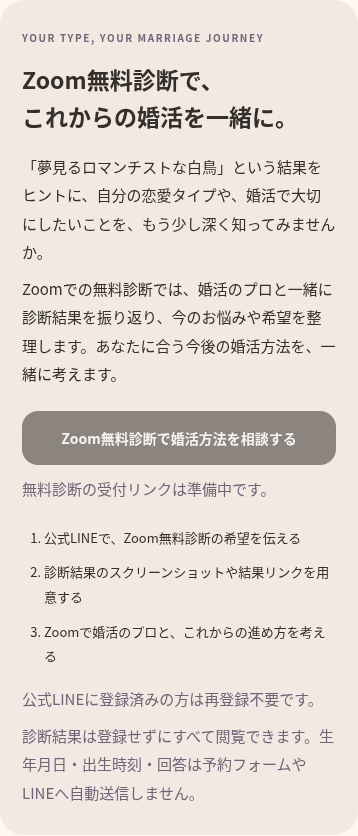
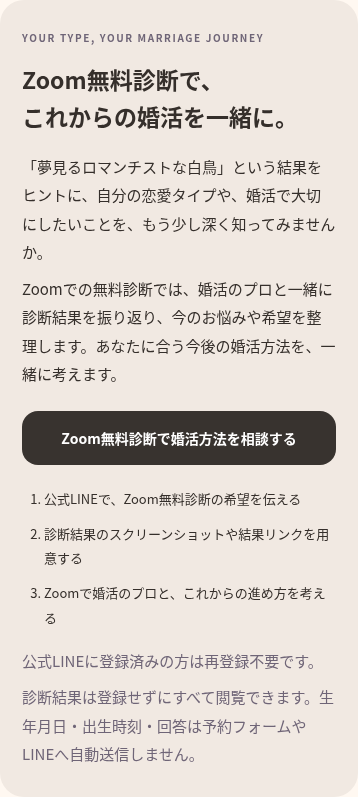
Connect free Zoom diagnosis to existing official LINE account

diff --git a/site-config.js b/site-config.js
@@ -1,6 +1,6 @@
 // 公開するURL・確認済み資格名だけを設定。秘密情報は記載しないでください。
 window.UNIC_CONFIG = {
   BOOKING_URL: '', // Zoom無料診断のHTTPS予約URL。優先使用。空欄ならLINE_OA_URLで日程を調整します。
-  LINE_OA_URL: '', // 既存の婚活イベント用公式LINEのHTTPS登録URL。
+  LINE_OA_URL: 'https://lin.ee/wYDO7PH', // 既存の婚活イベント用公式LINEのHTTPS登録URL。
   COACH_CREDENTIAL: '' // 正式名称の確認後に設定。未確認の資格名は表示しません。
 };

diff --git a/README.md b/README.md
@@ -13,7 +13,7 @@
 - 12タイプの元のキャラに近い個別画像と、実装済み四柱推命を維持。
 
 ## 必須設定
-site-config.js のBOOKING_URLにZoom無料診断のHTTPS予約URLを設定してください。LINE受付の場合はLINE_OA_URLへ既存公式LINEの友だち追加URLを設定。予約URLを優先します。両方未設定の場合は受付ボタンが準備中です。COACH_CREDENTIALは将来用で、現在の画面には表示しません。
+site-config.js のBOOKING_URLにZoom無料診断のHTTPS予約URLを設定してください。LINE受付の場合はLINE_OA_URLへ既存公式LINEの友だち追加URLを設定。予約URLを優先します。両方未設定の場合は受付ボタンが準備中です。現在はユーザー指定の既存公式LINE https://lin.ee/wYDO7PH を設定済みです。COACH_CREDENTIALは将来用で、現在の画面には表示しません。
 
 ## 起動・検証
 既存の/workspace/unic-meetを使用。隔離済みのため明示依頼なしにworktreeは作成しません。静的サイトでビルド・依存導入は不要です。

diff --git a/改修報告.md b/改修報告.md
@@ -28,6 +28,6 @@
 - LINEアプリの実機送信・友だち登録・実際の相談受付は未確認。
 
 ## 残る設定・別サイト
-Zoom無料診断の予約URL／公式LINE URLは未設定です。URLを受け取って設定するまでは準備中ボタンです。
+Zoom無料診断の受付に、ユーザー指定の既存公式LINE https://lin.ee/wYDO7PH を設定しました。予約ページURLは未設定のため、LINEで受付・日程調整します。LINEアプリ内の友だち追加・トーク送信は実機未確認です。
 リンク先サービスサイトは別プロジェクトです。従来アクセスがHTTP 403で、今回もそのサイトの内容や1,980円の価格表示は変更していません。
 Netlifyへの本番公開は行わず、GitHubに最新版を保存します。公開は確認後に既存サイトへアップロードしてください。
